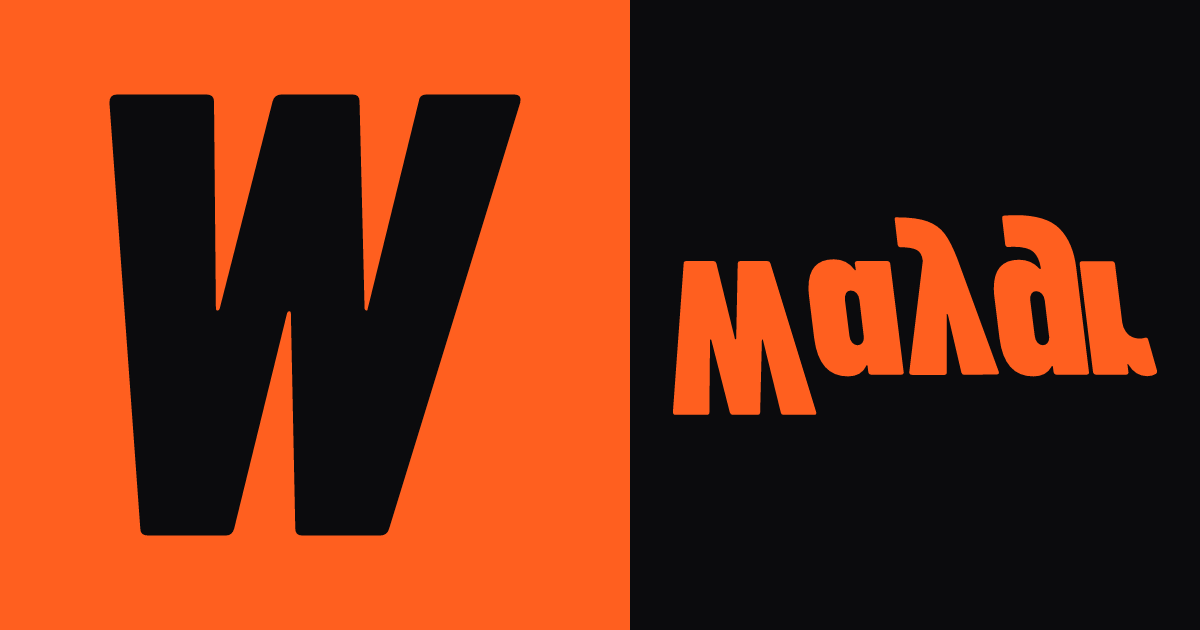
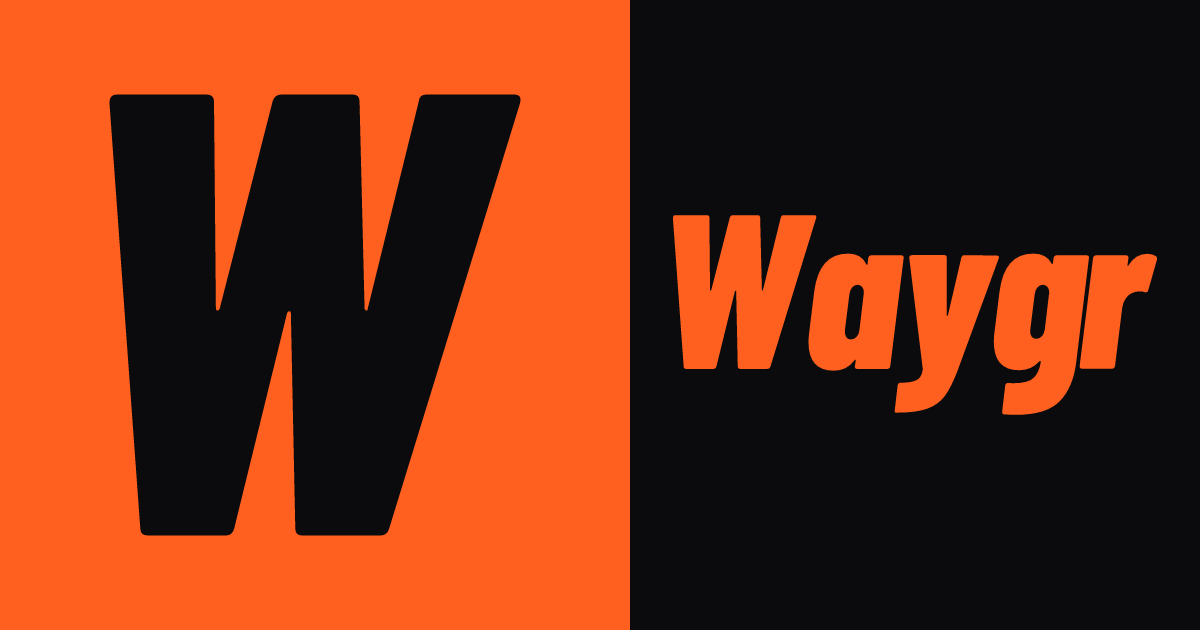
fix(og): draw the homepage wordmark upright
The brand-card wordmark was set from font coordinates, so Waygr was
upside down and read backwards. Flip that word on the black side so it
reads left to right with descenders. The orange W and challenge cards
stay as they are.

Changed region(s): [[0.555, 0.3317, 0.9867, 0.6635]]

diff --git a/tests/brand-metadata.test.ts b/tests/brand-metadata.test.ts
@@ -167,8 +167,26 @@ describe("brand link preview assets", () => {
     expect(cream).toBe(0);
     expect(orange).toBeGreaterThan(20_000);
     // Full word spans most of the right panel, including descender height.
-    expect(maxX - minX).toBeGreaterThan(400);
-    expect((maxY - minY) / (maxX - minX)).toBeGreaterThan(0.35);
+    const span = maxX - minX;
+    expect(span).toBeGreaterThan(400);
+    expect((maxY - minY) / span).toBeGreaterThan(0.35);
+
+    // Upright Waygr: y/g descenders are the lowest ink, not the W or the r.
+    let leftBottom = 0;
+    let midBottom = 0;
+    let rightBottom = 0;
+    for (let y = minY; y <= maxY; y++) {
+      for (let x = minX; x <= maxX; x++) {
+        const p = pixel(home, x, y);
+        if (!(p[0] > 200 && p[1] > 70 && p[1] < 130 && p[2] < 60)) continue;
+        const t = (x - minX) / span;
+        if (t < 0.25) leftBottom = Math.max(leftBottom, y);
+        else if (t >= 0.35 && t < 0.75) midBottom = Math.max(midBottom, y);
+        else if (t >= 0.85) rightBottom = Math.max(rightBottom, y);
+      }
+    }
+    expect(midBottom).toBeGreaterThan(leftBottom + 20);
+    expect(midBottom).toBeGreaterThan(rightBottom + 20);
   });
 
   it("keeps the challenge share card as the matchup layout", () => {
